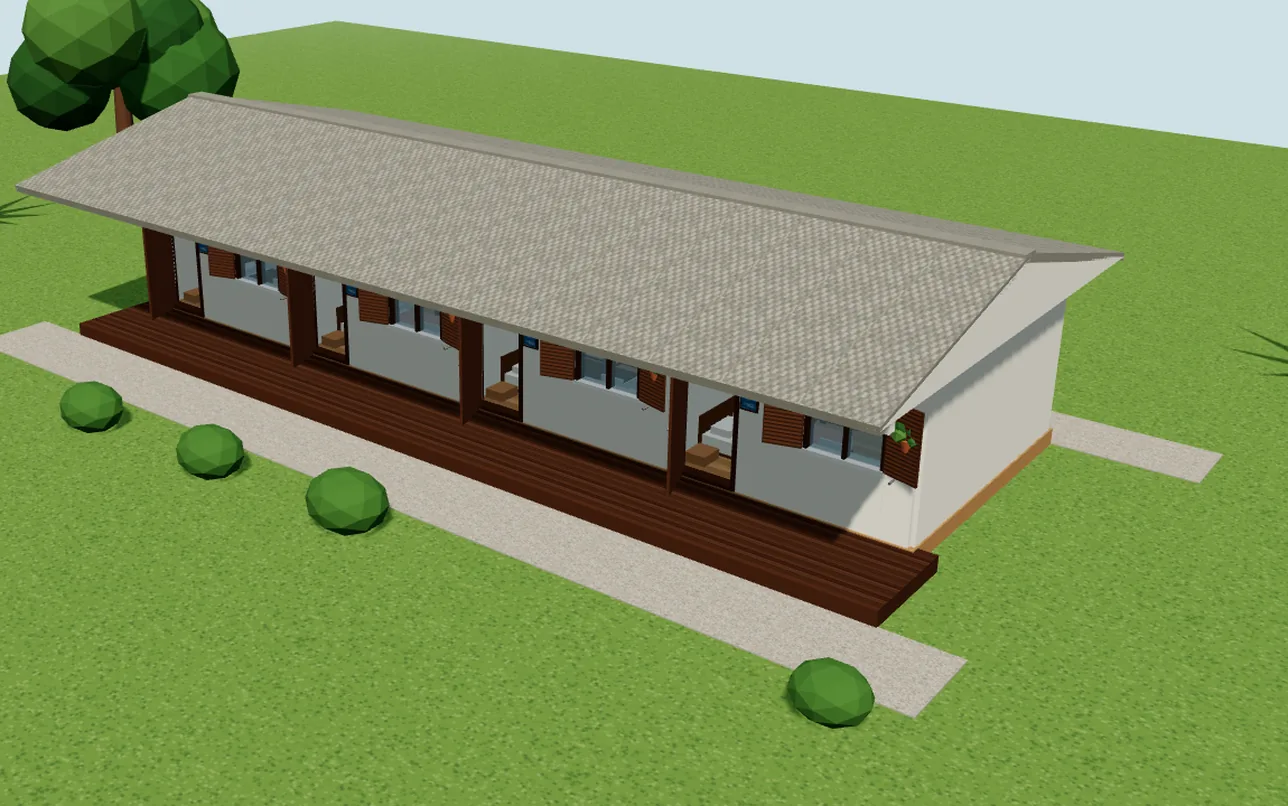
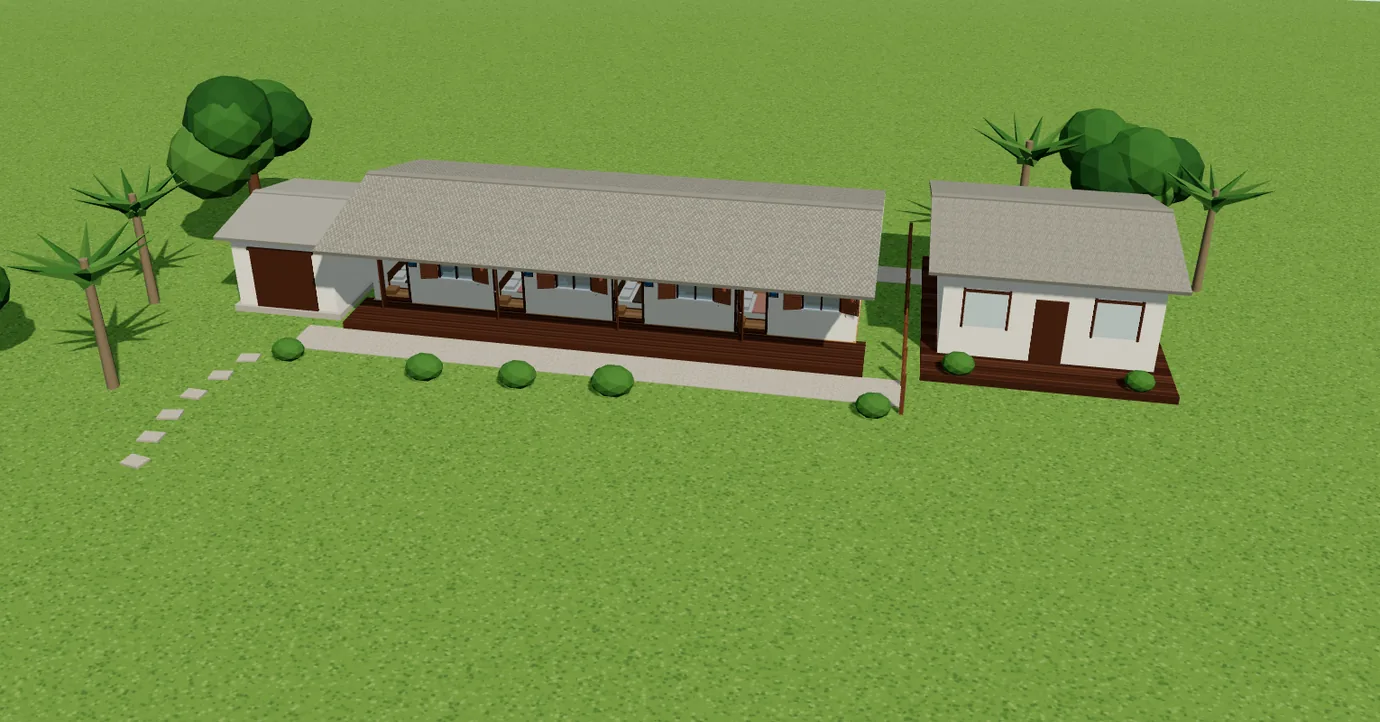
Sommer Lodge: pedidos do Luis (nome amarelo, churrasco, garagem e casa na planta)
Site:
- nome "Sommer Lodge" da capa em amarelo, como ele pediu no print
- area de churrasco com forno a lenha virou texto de verdade na secao
  "a casa", com a foto do forno numa faixa larga (antes so aparecia
  numa legenda de galeria)

Planta 3D, a partir do que ele marcou na propria planta:
- garagem/deposito na ponta esquerda (o que ele marcou em azul)
- casa do proprietario na direita, com a cerca que separa (em vermelho)
- terreno maior, sem a borda do chao aparecendo ao girar
- enquadramento de abertura refeito: de frente em tela deitada, na
  diagonal em tela vertical, porque agora sao ~29 m de ponta a ponta

Nao entrou: o video do terreno, que ele pediu pra nao colocar no site.

Claude-Session: https://claude.ai/code/session_019DD4G1MABL5QZBGhrwB2Vz

diff --git a/sommer-lodge/planta/index.html b/sommer-lodge/planta/index.html
@@ -203,7 +203,7 @@ body.noite .nota{color:#dfe9ec;background:rgba(10,31,37,.5);border-color:rgba(25
   </button>
 </div>
 
-<p class="nota">Modelo em escala, feito a partir das fotos e das medidas da pousada. Pequenos detalhes podem variar.</p>
+<p class="nota">Modelo em escala, feito a partir das fotos e das medidas da pousada. A garagem e a casa do proprietário estão onde o dono apontou.</p>
 
 <div id="carregando"><div><b>Sommer Lodge</b><i></i></div></div>
 
@@ -230,12 +230,12 @@ labelRenderer.setSize(innerWidth, innerHeight);
 const scene = new THREE.Scene();
 const CEU_DIA = new THREE.Color('#cfe0e6'), CEU_NOITE = new THREE.Color('#081520');
 scene.background = CEU_DIA.clone();
-scene.fog = new THREE.Fog(CEU_DIA.clone(), 48, 120);
+scene.fog = new THREE.Fog(CEU_DIA.clone(), 72, 165);
 
 const camera = new THREE.PerspectiveCamera(42, innerWidth / innerHeight, 0.1, 400);
 const controls = new OrbitControls(camera, renderer.domElement);
 controls.enableDamping = true; controls.dampingFactor = .08;
-controls.minDistance = 4; controls.maxDistance = 64;
+controls.minDistance = 4; controls.maxDistance = 80;
 controls.maxPolarAngle = Math.PI * .475;
 controls.screenSpacePanning = true;
 
@@ -652,7 +652,7 @@ const DECK_Z = 1.75;     // profundidade da varanda
 const CX = [-6, -2, 2, 6];
 const NOMES = ['Wainui', 'Waipataki', 'Tolaga Bay', 'Haumoana'];
 
-piso(-34, 34, -30, 30, 0, MAT.grama, G.externo, .3);
+piso(-62, 62, -58, 46, 0, MAT.grama, G.externo, .3);
 piso(X0 - 1.6, X1 + 1.6, DECK_Z, DECK_Z + 1.5, .02, MAT.brita, G.externo, .08);   // faixa de brita
 piso(X0 - 2.4, X1 + 2.4, ZB - 1.4, ZB - .1, .02, MAT.brita, G.externo, .08);      // nos fundos
 
@@ -764,7 +764,7 @@ caixa(X1 - X0 + 1.0, .24, .16, MAT.branco, (X0 + X1) / 2, .28 + ALT - .22, DECK_
 /* ======================= JARDIM ======================= */
 // nada de vegetação na frente da câmera inicial (x alto + z alto), senão tapa o bloco
 palmeira(X1 + 5.5, -8.5, 0, G.externo, 1.0);
-palmeira(X1 + 7.6, -4.2, 0, G.externo, .85);
+palmeira(X1 + 11.5, -6.5, 0, G.externo, .85);
 palmeira(X0 - 5.5, 6.5, 0, G.externo, .95);
 palmeira(X0 - 7.6, 1.2, 0, G.externo, .9);
 arvore(X0 - 6.4, -4.0, 0, 1.15);
@@ -778,6 +778,62 @@ for (let i = 0; i < 6; i++) {
     X0 - 2.4 - Math.sin(i * .6) * .5, .02, 4.2 + i * 1.15, G.externo, false);
   m.rotation.y = rnd(-.2, .2);
 }
+
+/* ============ GARAGEM, CASA DO PROPRIETÁRIO E CERCA ============ */
+/* O Luis marcou os dois na própria planta: em azul, na ponta esquerda, a garagem
+   que ele usa como depósito; em vermelho, na direita, a casa dele, separada por
+   uma cerca. Entram aqui pra planta ficar fiel ao terreno. */
+const MAT_CINZA = std({ color: '#b9b4ab', roughness: .9 });
+const MAT_FIBRO = std({ color: '#9a9a93', roughness: .9 });
+
+function telhadoDuasAguas(cx, cz, larg, prof, yBeiral, subida, mat, pai) {
+  const meia = prof / 2, comp = Math.hypot(meia, subida), ang = Math.atan2(subida, meia);
+  [1, -1].forEach(s => {
+    const m = new THREE.Mesh(new THREE.BoxGeometry(larg, .12, comp), mat);
+    m.position.set(cx, yBeiral + subida / 2, cz + s * meia / 2);
+    m.rotation.x = s * ang;
+    m.castShadow = m.receiveShadow = true; pai.add(m);
+  });
+  caixa(larg, .12, .26, mat, cx, yBeiral + subida - .04, cz, pai);
+}
+
+// --- garagem / depósito (ponta esquerda) ---
+(() => {
+  const x0 = -12.4, x1 = -8.9, z0 = -3.7, z1 = 1.1;
+  const L = x1 - x0, P = z1 - z0, cx = (x0 + x1) / 2, cz = (z0 + z1) / 2, alt = 2.5;
+  piso(x0 - .15, x1 + .15, z0 - .15, z1 + .15, .22, MAT_CINZA, G.externo, .22);
+  caixa(L, alt, P, MAT.paredeExt, cx, .22, cz, G.externo);
+  // portão de madeira virado pro jardim
+  caixa(L * .62, 2.05, .07, MAT.madeiraEsc, cx, .22, z1 + .04, G.externo, false);
+  caixa(L * .62 + .14, .09, .11, MAT.madeiraEsc, cx, .22 + 2.05, z1 + .04, G.externo, false);
+  telhadoDuasAguas(cx, cz, L + .7, P + .7, .22 + alt, .55, MAT_FIBRO, G.externo);
+})();
+
+// --- casa do proprietário (direita, atrás da cerca) ---
+(() => {
+  const x0 = 10.6, x1 = 17.0, z0 = -6.6, z1 = .2;
+  const L = x1 - x0, P = z1 - z0, cx = (x0 + x1) / 2, cz = (z0 + z1) / 2, alt = 2.9;
+  piso(x0 - .5, x1 + .5, z0 - .5, z1 + 1.4, .24, MAT.deck, G.externo, .24);
+  caixa(L, alt, P, MAT.paredeExt, cx, .24, cz, G.externo);
+  // janelas e porta na frente
+  [-1.9, 1.9].forEach(dx => {
+    caixa(1.25, 1.15, .06, MAT.janelaVidro, cx + dx, .24 + 1.05, z1 + .02, G.externo, false);
+    caixa(1.35, .07, .1, MAT.madeiraEsc, cx + dx, .24 + 2.2, z1 + .02, G.externo, false);
+    caixa(.07, 1.3, .1, MAT.madeiraEsc, cx + dx - .67, .24 + 1.0, z1 + .02, G.externo, false);
+    caixa(.07, 1.3, .1, MAT.madeiraEsc, cx + dx + .67, .24 + 1.0, z1 + .02, G.externo, false);
+  });
+  caixa(.95, 2.1, .07, MAT.madeiraEsc, cx, .24, z1 + .03, G.externo, false);
+  telhadoDuasAguas(cx, cz, L + 1.0, P + 1.0, .24 + alt, .95, MAT.telha, G.externo);
+  arbusto(cx - 2.6, z1 + 1.1, .24, .7, G.externo);
+  arbusto(cx + 2.6, z1 + 1.1, .24, .62, G.externo);
+})();
+
+// --- cerca que separa a casa do proprietário das suítes ---
+(() => {
+  const x = 9.6, de = -7.6, ate = 3.6, n = Math.round((ate - de) / 1.7);
+  for (let i = 0; i <= n; i++) caixa(.12, 1.3, .12, MAT.madeiraMed, x, 0, de + i * (ate - de) / n, G.externo);
+  [.42, .78, 1.14].forEach(h => caixa(.06, .09, ate - de, MAT.madeiraMed, x, h, (de + ate) / 2, G.externo, false));
+})();
 
 /* ======================= OTIMIZAÇÃO ======================= */
 // peça pequena não projeta sombra (economia grande de draw calls no celular),
@@ -798,9 +854,11 @@ for (let i = 0; i < 6; i++) {
 
 /* ======================= RÓTULOS ======================= */
 const AMB = [
-  { id: 'bloco', nome: 'As quatro suítes', sub: '16 × 5 m · 20 m² cada', pos: [0, 5.6, -2.3], tipo: 'ext', d: 26 },
+  { id: 'bloco', nome: 'As quatro suítes', sub: '16 × 5 m · 20 m² cada', pos: [0, 5.6, -2.3], tipo: 'ext', d: 24 },
   { id: 'varanda', nome: 'Varanda coberta', sub: 'deck de madeira', pos: [-.3, 1.55, 1.15], tipo: 'ext', d: 13 },
   { id: 'jardim', nome: 'Jardim', sub: 'palmeiras e mata', pos: [X1 + 4.6, 2.6, 4.0], tipo: 'ext', d: 15 },
+  { id: 'garagem', nome: 'Garagem', sub: 'depósito do proprietário', pos: [-10.6, 3.2, -1.3], tipo: 'ext', d: 12 },
+  { id: 'casa', nome: 'Casa do proprietário', sub: 'separada por cerca', pos: [13.8, 4.3, -3.2], tipo: 'ext', d: 17 },
   { id: 'quarto', nome: 'Quarto', sub: 'casal + beliche', pos: [-2.9, 1.5, -2.2], tipo: 'int', d: 8.5 },
   { id: 'kit', nome: 'Kitchenette', sub: 'cooktop, pia e frigobar', pos: [-.5, 1.5, -3.3], tipo: 'int', d: 7.6 },
   { id: 'banheiro', nome: 'Banheiro', sub: 'box, pia e vaso', pos: [-3.2, 1.5, -4.1], tipo: 'int', d: 7.2 },
@@ -818,7 +876,7 @@ AMB.forEach(a => {
 });
 
 const amb = document.getElementById('amb');
-const grupos = [['A pousada', ['bloco', 'varanda', 'jardim']], ['Dentro da suíte', ['quarto', 'kit', 'banheiro']], ['As quatro', ['s0', 's1', 's2', 's3']]];
+const grupos = [['No terreno', ['bloco', 'varanda', 'jardim', 'garagem', 'casa']], ['Dentro da suíte', ['quarto', 'kit', 'banheiro']], ['As quatro', ['s0', 's1', 's2', 's3']]];
 grupos.forEach(([t, ids]) => {
   const h = document.createElement('div'); h.className = 'grupo'; h.textContent = t; amb.appendChild(h);
   ids.forEach(id => {
@@ -841,10 +899,16 @@ function aplicaModo() {
 }
 
 /* ======================= CÂMERA ======================= */
-const INICIO = { pos: new THREE.Vector3(15, 11.5, 18), alvo: new THREE.Vector3(0, 1.1, -1.6) };
+// o terreno tem ~29 m de ponta a ponta: em tela deitada cabe de frente,
+// em tela vertical só cabe na diagonal, com o bloco fugindo pro fundo.
+const INICIO_LARGO = { pos: new THREE.Vector3(9, 19, 35), alvo: new THREE.Vector3(2.2, 1.2, -2.2) };
+const INICIO_ESTREITO = { pos: new THREE.Vector3(21, 14, 19), alvo: new THREE.Vector3(-1, 1.2, -2.0) };
+const telaEstreita = () => innerWidth / innerHeight < .9;
+const INICIO_ATUAL = () => telaEstreita() ? INICIO_ESTREITO : INICIO_LARGO;
+const alvoInicio = () => INICIO_ATUAL().alvo.clone();
 function fatorTela() { const a = innerWidth / innerHeight; return a < .75 ? 1.6 : a < 1.1 ? 1.35 : a < 1.4 ? 1.12 : 1; }
 function tamTela() { return Math.max(1, fatorTela() * .82); }
-function posInicio() { return INICIO.alvo.clone().add(INICIO.pos.clone().sub(INICIO.alvo).multiplyScalar(fatorTela())); }
+function posInicio() { const i = INICIO_ATUAL(); const f = telaEstreita() ? 1 : fatorTela(); return i.alvo.clone().add(i.pos.clone().sub(i.alvo).multiplyScalar(f)); }
 let anim = null;
 function voa(pos, alvo, dur = 1.1, depois) {
   anim = { p0: camera.position.clone(), p1: pos.clone(), a0: controls.target.clone(), a1: alvo.clone(), t0: performance.now(), dur, depois };
@@ -873,7 +937,7 @@ function focar(a) {
 }
 function resetar() {
   modo = 'todos'; aplicaModo(); setVista('3d', false);
-  voa(posInicio(), INICIO.alvo, 1.2);
+  voa(posInicio(), alvoInicio(), 1.2);
   document.querySelectorAll('#amb button').forEach(b => b.classList.remove('ativo'));
 }
 function setVista(v, mover = true) {
@@ -883,11 +947,11 @@ function setVista(v, mover = true) {
     if (modo !== 'aberto') { modo = 'aberto'; aplicaModo(); }
     controls.enableRotate = false; controls.minPolarAngle = 0; controls.maxPolarAngle = .001;
     camera.fov = 30; camera.updateProjectionMatrix(); controls.maxDistance = 90;
-    if (mover) voa(new THREE.Vector3(0, 26 * fatorTela(), -2.45), new THREE.Vector3(0, .3, -2.5), 1.1);
+    if (mover) voa(new THREE.Vector3(2.2, 30 * fatorTela(), -2.45), new THREE.Vector3(2.2, .3, -2.5), 1.1);
   } else {
     controls.enableRotate = true; controls.minPolarAngle = 0; controls.maxPolarAngle = Math.PI * .475;
-    camera.fov = 42; camera.updateProjectionMatrix(); controls.maxDistance = 64;
-    if (mover) voa(posInicio(), INICIO.alvo, 1.1);
+    camera.fov = 42; camera.updateProjectionMatrix(); controls.maxDistance = 80;
+    if (mover) voa(posInicio(), alvoInicio(), 1.1);
   }
 }
 
@@ -957,8 +1021,8 @@ function organizaRotulos() {
 
 /* ======================= LOOP ======================= */
 camera.position.copy(posInicio()).multiplyScalar(1.45);
-controls.target.copy(INICIO.alvo);
-voa(posInicio(), INICIO.alvo, 2.2);
+controls.target.copy(alvoInicio());
+voa(posInicio(), alvoInicio(), 2.2);
 aplicaModo(); aplicaNoite();
 const ease = t => t < .5 ? 4 * t * t * t : 1 - Math.pow(-2 * t + 2, 3) / 2;
 let quadro = 0;

diff --git a/sommer-lodge/index.html b/sommer-lodge/index.html
@@ -119,7 +119,8 @@ h2.big em{font-family:'Newsreader',serif;font-style:italic;font-weight:300;lette
 .lock{width:100%}
 #hero h1{font-family:'Newsreader',serif;font-size:clamp(44px,10.4vw,132px);font-weight:600;
   letter-spacing:.04em;line-height:.98;text-transform:uppercase;
-  text-shadow:0 2px 60px rgba(0,0,0,.35)}
+  color:#e6c76f;
+  text-shadow:0 1px 3px rgba(6,22,26,.55),0 2px 30px rgba(6,22,26,.6),0 2px 70px rgba(0,0,0,.4)}
 #hero h1 span{display:block}
 #hero h1 .l2{letter-spacing:.14em}
 .lock-mk{display:block;width:clamp(52px,7vw,84px);height:auto;margin-bottom:clamp(8px,1.4vh,16px)}
@@ -164,6 +165,7 @@ h2.big em{font-family:'Newsreader',serif;font-style:italic;font-weight:300;lette
 .about-pics{display:grid;grid-template-columns:1fr 1fr;gap:12px;align-items:start}
 .about-pics .pic:first-child{aspect-ratio:3/4;margin-top:34px}
 .about-pics .pic:last-child{aspect-ratio:4/5}
+.about-pics .pic.larga{grid-column:1/-1;aspect-ratio:16/10}
 .pic{position:relative;overflow:hidden;background:var(--panel);border-radius:3px}
 .pic img{width:100%;height:100%;object-fit:cover}
 
@@ -188,7 +190,7 @@ h2.big em{font-family:'Newsreader',serif;font-style:italic;font-weight:300;lette
 /* planta 3d */
 #planta3d .cartao{position:relative;margin-top:clamp(28px,4.5vh,50px);border-radius:22px;overflow:hidden;
   background:var(--deep);box-shadow:var(--sh);display:block;text-decoration:none;color:#f3f2ee}
-#planta3d .cartao img{width:100%;height:auto;aspect-ratio:1308/900;object-fit:cover;
+#planta3d .cartao img{width:100%;height:auto;aspect-ratio:1400/758;object-fit:cover;
   transition:transform .9s cubic-bezier(.2,.8,.3,1)}
 #planta3d .cartao:hover img{transform:scale(1.035)}
 #planta3d .cartao .veu{position:absolute;inset:0;
@@ -495,10 +497,12 @@ footer nav a{color:rgba(243,242,238,.68);font-family:'Bricolage Grotesque',sans-
         <h2 class="big rise" data-pt="Um quintal com quatro portas e o mar logo ali." data-en="A garden with four doors and the sea just there.">Um quintal com quatro portas e o mar logo ali.</h2>
         <p class="prose" style="margin-top:26px" data-pt="O Sommer Lodge fica em Garopaba, no sul de Santa Catarina, a cem metros da Surfland — a piscina de ondas. São quatro suítes independentes, cada uma com porta própria para o jardim: você entra e sai sem passar por recepção, corredor ou ninguém." data-en="Sommer Lodge sits in Garopaba, southern Santa Catarina, a hundred metres from Surfland — the wave pool. Four independent suites, each with its own door onto the garden: you come and go without a lobby, a corridor or anyone in between.">O Sommer Lodge fica em Garopaba, no sul de Santa Catarina, a cem metros da Surfland — a piscina de ondas. São quatro suítes independentes, cada uma com porta própria para o jardim: você entra e sai sem passar por recepção, corredor ou ninguém.</p>
         <p class="prose" data-pt="As suítes levam nome de praias da Nova Zelândia, e cada quarto tem uma telinha pintada à mão da praia que deu o nome. Haumoana, em māori, quer dizer brisa do mar." data-en="The suites are named after beaches in New Zealand, and each room carries a small hand-painted canvas of the beach it was named for. Haumoana means sea breeze in Māori.">As suítes levam nome de praias da Nova Zelândia, e cada quarto tem uma telinha pintada à mão da praia que deu o nome. Haumoana, em māori, quer dizer brisa do mar.</p>
+        <p class="prose" data-pt="O quintal é de todo mundo: a área de churrasco é coberta, com forno a lenha de barro e bancada, sobre o mesmo deck de madeira das suítes. O estacionamento fica na porta." data-en="The garden is shared: the barbecue area is covered, with a clay wood-fired oven and a counter, on the same wooden deck as the suites. Parking is right at the door.">O quintal é de todo mundo: a área de churrasco é coberta, com forno a lenha de barro e bancada, sobre o mesmo deck de madeira das suítes. O estacionamento fica na porta.</p>
       </div>
       <div class="about-pics">
         <div class="pic"><img src="fotos/jardim.webp" alt="Pergolado com buganvílias no jardim" loading="lazy"></div>
         <div class="pic"><img src="fotos/casa.webp" alt="Jardim e varanda das suítes" loading="lazy"></div>
+        <div class="pic larga"><img src="fotos/churrasco.webp" alt="Área de churrasco coberta com forno a lenha de barro" loading="lazy"></div>
       </div>
     </div>
   </div>
@@ -520,7 +524,7 @@ footer nav a{color:rgba(243,242,238,.68);font-family:'Bricolage Grotesque',sans-
     <p class="prose" style="margin-top:18px" data-pt="As quatro suítes são iguais: 4 × 5 m, banheiro privativo, kitchenette e porta para a varanda. Gire o modelo, tire o telhado e veja como tudo se encaixa." data-en="The four suites are identical: 4 × 5 m, private bathroom, kitchenette and a door onto the verandah. Spin the model, lift the roof and see how it all fits.">As quatro suítes são iguais: 4 × 5 m, banheiro privativo, kitchenette e porta para a varanda. Gire o modelo, tire o telhado e veja como tudo se encaixa.</p>
 
     <a class="cartao rise" href="planta/">
-      <img src="fotos/planta-3d.webp" width="1308" height="900" loading="lazy" decoding="async"
+      <img src="fotos/planta-3d.webp" width="1400" height="758" loading="lazy" decoding="async"
            alt="Planta 3D das quatro suítes do Sommer Lodge vista de cima, sem o telhado">
       <span class="veu"></span>
       <span class="dentro">
